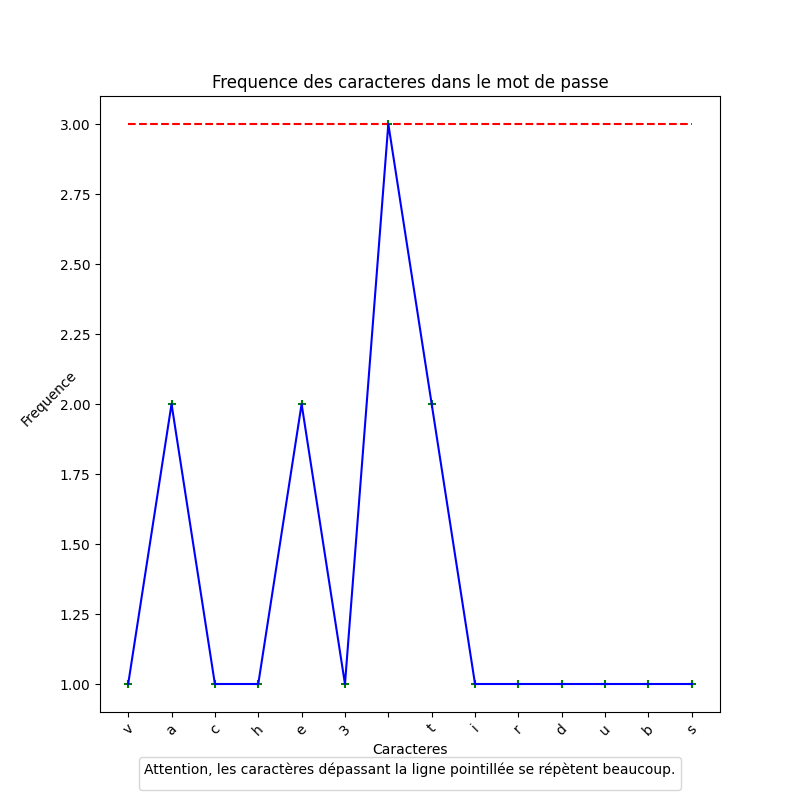
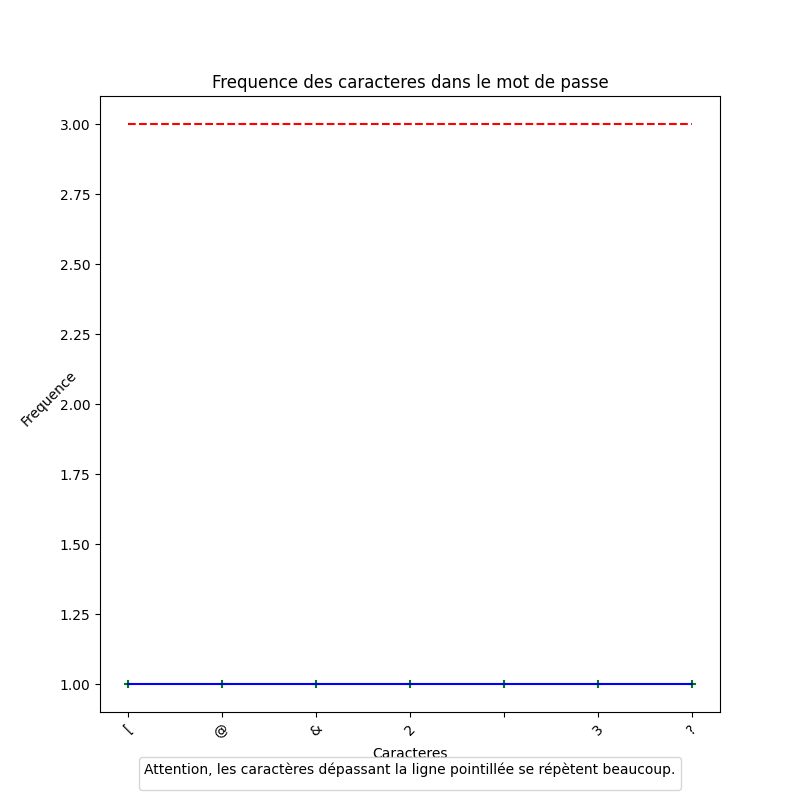
Ajout de caracteres specieux pour le vocal.

diff --git a/MotDePasse.py b/MotDePasse.py
@@ -676,6 +676,29 @@ def GenerationVocale3():
     
     listen_convert3()
     
+    def CaracSpeciaux():
+        
+        text = mdp_entry.get()
+        
+        print(f"TEXT : {text}")
+        
+        Remplacements = {"Inter" : "?",
+                         "espère" : "&",
+                         "base" : "@",
+                         "Crush" : "["}
+        
+        for mot, caractere in Remplacements.items():
+            
+            text = text.replace(mot, caractere)
+            
+        print(f"TEXT MODIF: {text}")
+            
+        mdp_entry.delete(0, tk.END)
+        
+        mdp_entry.insert(0, text)
+            
+    CaracSpeciaux()
+    
     ecrire_dans_le_fichier3()
     
 def TextToAsk():
